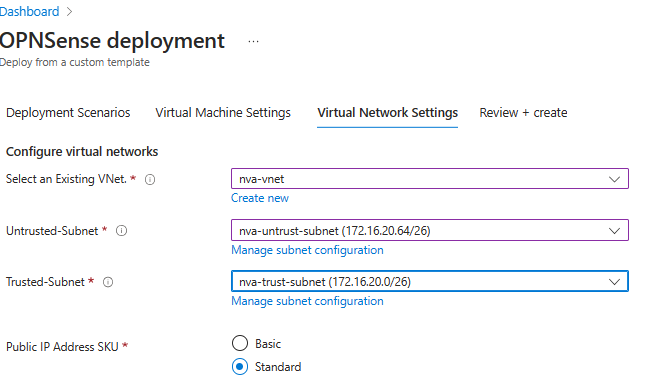
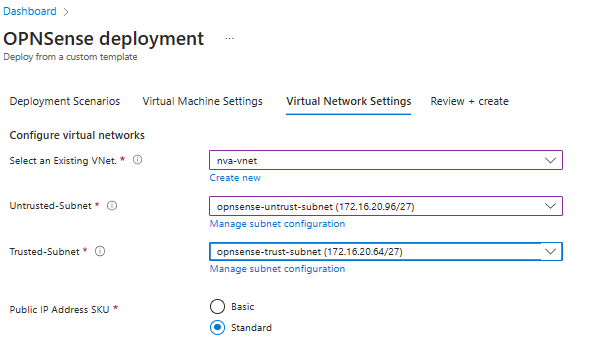
upd

diff --git a/README.md b/README.md
@@ -423,11 +423,20 @@ Connect to onprem-3-vm at 10.100.10.4 via Bastion, open a command prompt and obt
 What is the next hop for 0.0.0.0/0?
 
 # Scenario 4: Internet through Firewall in Spoke
-You will now deploy add OPNsense firewall into the nva-vnet. Outbound internet traffic from Spokes, Branches and SDWAN will be directed through the CSR1000v router and through the OPNsense firewall in stead of through the Hub firewalls.
+You will now deploy add OPNsense firewall into the nva-vnet. Outbound internet traffic from Spokes, Branches and SDWAN will be directed through the CSR1000v router and through the OPNsense firewall, in stead of through the Hub firewalls.
 
 ![image](images/internet-via-opnsense.png)
 
-## Task 1: Deploy OPNsense NVA
+## Task 1: Remove Routing Policy for Internet traffic
+This task takes a while to complete.
+
+Navigate to the West Europe Hub and click Routing Intent and Routing Policies.
+
+In the dropdown under Internet Traffic, select None, then click Save.
+
+Do the same for the US East Hub.
+
+## Task 2: Deploy OPNsense NVA
 This task leverages Daniel Mauser's excellent [OPNsense NVA Firewall in Azure](https://github.com/dmauser/opnazure) lab.
 
 In Cloud Shell, accept the usage terms of FreeBSD Linux:
@@ -454,7 +463,57 @@ When the deployment completes, browse to the NVA's public IP address ( OPNsense-
 - Username: root
 - Password: opnsense (lowercase)
 
+## Task 3: Advertise default route from CSR1000v NVA
 
+### Configure nva-csr-vm
+The CSR will now advertise the default route both into the West Europe Hub and toward the SDWAN site. All internet traffic will flow to the CSR, and it will route it out it's "outside" interface, GigabitEthernet2.
+
+Log on to nva-csr-vm via Serial console.
+
+Type `en` to enter enablement mode. The route already has a default route pointing to GigebitEthernet2, verify this by inspecting the routing table with `sh ip route`. 
+
+However, this route is not advertised over BGP, verify this by inspecting advertised routes to one of the BGP peers with `sh ip bgp neighbors 192.168.0.68 adverised-routes`.
+
+To start advertising the default route, a network statement needs to be added to the bgp configuration.
+
+Type `conf t` to enter configuration mode, then `router bgp 64000`.
+Then type `network 0.0.0.0 mask 0.0.0.0` and `exit`.
+
+Verify that the default route is now advertised by again inspecting routes advertised to BGP peers.
+
+Save the configuration with `copy run start`.
+
+### Verify
+Verify that the default route is learned by the West Europe Hub.
+
+Navigate to the West Europe Hub and click Effective Routes. Under Choose resource type select Azure Firewall and under Resource microhack-we-hub-firewall.
+
+The default route should be lsited with Next Hop Type HubBgpConnection and Next Hop the BGP connection to the CSR.
+
+![image](images/west-europe-default-route.png)
+
+Now go the East US Hub and inspect the firewall effective routes.
+
+![image](images/us-east-default-route.png).
+
+Note that the default route points directly to Internet.
+
+:point_right: The default route is not advertised between Hubs. Cross-hub internet access is not possible and aach Hub must implement its own, local internet break out facility.
+
+### User Defined Route
+As we want outbound traffic to be secured by the OPNsense firewall, we need a UDR on the nva-untrusted subnet to push the traffic to the firewall's trusted or inside interface. However, the SDWAN IPSec tunnel traffic should not be firewalled, so the UDR must contain an explicit route to send traffic for `vnet-gw-onprem3` to the internet directly.
+
+![image](images/nva-udr.png)
+
+The UDR is pre-provisioned in the `vwan-security-microhack-spoke-rg` Resource Group, but still needs to be attched to the subnet.
+
+Navigate to `nva-vnet`, click subnets and select `nva-untrust-subnet`. Under Route table select `nva-untrust-udr`.
+
+![image](images/attach-nva-untrust-udr.png)
+
+Return traffic from the OPNsense firewall must be directed back to the CSR1000v's untrusted interface. Another UDR to achieve this is pre-provisioned in the `vwan-security-microhack-spoke-rg` Resource Group, but still needs to be attched to the OPNsense trusted subnet.
+
+Navigate to `nva-vnet`, click subnets and select `opnsense-trust-subnet`. Under Route table select `nva-untrust-udr`.
 
 # Close Out
 
